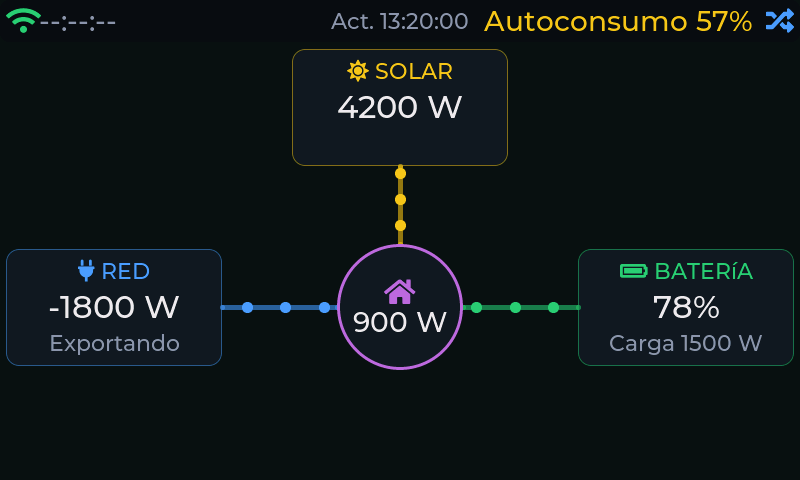
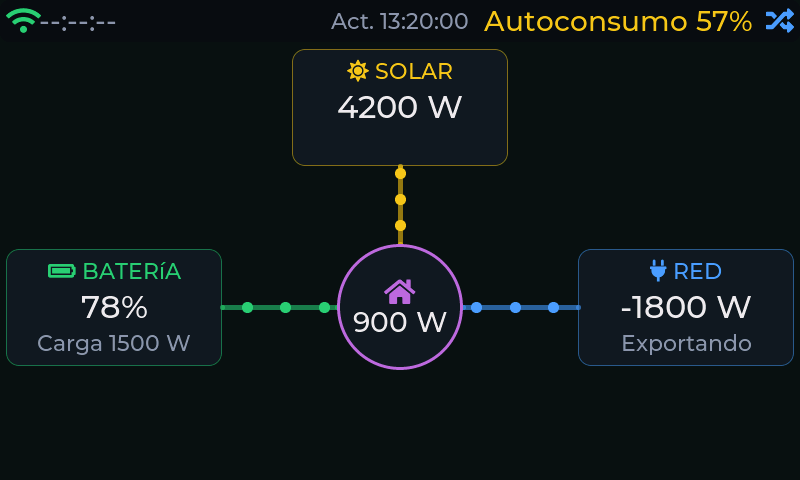
feat: flujo de energía con batería a la izquierda y red a la derecha; «CO2 ahorrado»
Actualiza README (captura del flujo bajo el esquema del dashboard), manual y capturas.

Claude-Session: https://claude.ai/code/session_01GTcuUXT4PcCQKxnsb58b1A

diff --git a/src/dashboard.cpp b/src/dashboard.cpp
@@ -324,14 +324,15 @@ static void flow_create(lv_obj_t* parent)
 
     // Nodos
     flow_make_node(s_flow, cx - nw / 2, top_y, nw, nh, LV_SYMBOL_SUN " SOLAR", C_SOLAR, &fl_solar_val, nullptr);
-    flow_make_node(s_flow, UI_MARGIN, hub_cy - nh / 2, nw, nh, LV_SYMBOL_PLUG " RED", C_RUN, &fl_grid_val, &fl_grid_st);
-    flow_make_node(s_flow, cw - UI_MARGIN - nw, hub_cy - nh / 2, nw, nh,
+    // Batería a la izquierda y red a la derecha
+    flow_make_node(s_flow, UI_MARGIN, hub_cy - nh / 2, nw, nh,
                    LV_SYMBOL_BATTERY_FULL " BATER\xC3\xAD\x41", C_BATT_OK, &fl_batt_val, &fl_batt_st);
+    flow_make_node(s_flow, cw - UI_MARGIN - nw, hub_cy - nh / 2, nw, nh, LV_SYMBOL_PLUG " RED", C_RUN, &fl_grid_val, &fl_grid_st);
 
     // Enlaces (origen → hub). Se crean ANTES que el hub para que este los tape en los extremos.
     flow_make_link(s_fl_solar, s_pts_solar, s_flow, cx, top_y + nh, cx, hub_cy - hub / 2, C_SOLAR);
-    flow_make_link(s_fl_grid,  s_pts_grid,  s_flow, UI_MARGIN + nw, hub_cy, cx - hub / 2, hub_cy, C_RUN);
-    flow_make_link(s_fl_batt,  s_pts_batt,  s_flow, cw - UI_MARGIN - nw, hub_cy, cx + hub / 2, hub_cy, C_BATT_OK);
+    flow_make_link(s_fl_batt,  s_pts_batt,  s_flow, UI_MARGIN + nw, hub_cy, cx - hub / 2, hub_cy, C_BATT_OK);
+    flow_make_link(s_fl_grid,  s_pts_grid,  s_flow, cw - UI_MARGIN - nw, hub_cy, cx + hub / 2, hub_cy, C_RUN);
 
     // Hub "Casa"
     lv_obj_t* h = lv_obj_create(s_flow);

diff --git a/src/telegram.cpp b/src/telegram.cpp
@@ -195,7 +195,7 @@ static String fmt_daily_stats(uint32_t dep, const DailyStats& d,
         "🔋 Descarga bat.: *%.2f kWh*\n\n"
         "📊 Autoconsumo: *%.0f%%*\n"
         "📊 Autosuficiencia: *%.0f%%*\n"
-        "🌱 CO2 evitado: *%.1f kg*",
+        "🌱 CO2 ahorrado: *%.1f kg*",
         title, fmt_date(dep).c_str(),
         d.pv_kwh, d.load_kwh,
         d.export_kwh, d.import_kwh,
@@ -295,7 +295,7 @@ String TelegramBot::cmdPeriodo(bool year, const String& arg) const {
     pos += snprintf(buf + pos, sizeof(buf) - pos,
         "☀ Producción: *%.1f kWh*\n🏠 Consumo: *%.1f kWh*\n"
         "🔌 Exportado: *%.1f kWh*\n🔌 Importado: *%.1f kWh*\n"
-        "📊 Autoconsumo: *%.0f%%*\n📊 Autosuficiencia: *%.0f%%*\n🌱 CO2 evitado: *%.0f kg*\n",
+        "📊 Autoconsumo: *%.0f%%*\n📊 Autosuficiencia: *%.0f%%*\n🌱 CO2 ahorrado: *%.0f kg*\n",
         cur.pv, cur.load, cur.export_kwh, cur.import_kwh,
         cur.autoconsumption() < 0 ? 0 : cur.autoconsumption(),
         cur.autosufficiency() < 0 ? 0 : cur.autosufficiency(), cur.co2_kg());

diff --git a/src/energy_metrics.h b/src/energy_metrics.h
@@ -2,7 +2,7 @@
 #include "tuning.h"
 
 // Indicadores derivados de los totales diarios (DEYE-35): autosuficiencia, autoconsumo y
-// CO2 evitado. Sin dependencias de Arduino; probado en `pio test -e native`. Los usan la
+// CO2 ahorrado. Sin dependencias de Arduino; probado en `pio test -e native`. Los usan la
 // pantalla Estadísticas, el bot de Telegram y la web.
 
 // % del consumo cubierto sin importar de la red (cualquier origen: solar directo + batería).

diff --git a/src/web_server.cpp b/src/web_server.cpp
@@ -364,7 +364,7 @@ footer a{color:var(--accent);text-decoration:none}
     </div>
     <div class="kpi">
       <div class="kpi-v" id="kpi-co2" style="color:#4a9eff">-- kg</div>
-      <div class="kpi-l">CO2 evitado</div>
+      <div class="kpi-l">CO2 ahorrado</div>
     </div>
   </div>
   <div class="donut-row">

diff --git a/docs/manual/08-telegram.md b/docs/manual/08-telegram.md
@@ -30,7 +30,7 @@ Escríbelos en la conversación con tu bot:
 |---|---|
 | `/estado` | Los valores instantáneos: producción solar, red, batería y consumo. |
 | `/bateria` | Nivel, estado, potencia, tensión (si el inversor la informa) y **autonomía estimada** (cuánto queda o cuánto falta para llenarse). |
-| `/hoy` | Totales del día: producción, consumo, importación, exportación, carga y descarga de batería, y los porcentajes de **autoconsumo** y **autosuficiencia**, además del **CO2 evitado**. |
+| `/hoy` | Totales del día: producción, consumo, importación, exportación, carga y descarga de batería, y los porcentajes de **autoconsumo** y **autosuficiencia**, además del **CO2 ahorrado**. |
 | `/dia AAAAMMDD` | Lo mismo que `/hoy` para una fecha pasada, p. ej. `/dia 20260508`. |
 | `/semana` | Resumen de los últimos siete días. |
 | `/mes [AAAAMM]` | Resumen del mes (por defecto, el actual) con totales, autoconsumo, autosuficiencia y CO2, y su **variación respecto al mismo mes del año anterior** si hay datos. |

diff --git a/docs/manual/03-estadisticas.md b/docs/manual/03-estadisticas.md
@@ -26,13 +26,13 @@ con comparaciones frente a ayer y a la semana anterior.
 En el centro de cada anillo está el total del día en kWh, y debajo cada segmento muestra su valor en
 kWh y su porcentaje.
 
-## Autosuficiencia y CO2 evitado
+## Autosuficiencia y CO2 ahorrado
 
 En los títulos de cada columna ves dos indicadores del día:
 
 - **Autosuficiencia** (junto a «Consumo»): qué porcentaje de lo que has consumido **no ha salido de
   la red**. Al 100 % no has importado nada.
-- **CO2 evitado** (junto a «Producción»): lo que habría emitido la red eléctrica para generar la
+- **CO2 ahorrado** (junto a «Producción»): lo que habría emitido la red eléctrica para generar la
   energía solar que has producido. Se calcula con un factor de emisión de **0,15 kg de CO2 por kWh**,
   un valor orientativo del mix eléctrico; si quieres otro, lo fija quien compila el firmware.
 

diff --git a/docs/manual/07-interfaz-web.md b/docs/manual/07-interfaz-web.md
@@ -32,7 +32,7 @@ solo cada cinco segundos, sin recargar la página:
 - Cuatro **medidores**: **Solar** (con PV1 y PV2), **Red** (negativo = exportando), **Batería** (con
   la potencia, el estado, la estimación de autonomía —«llena en 2 h 10 min»— y, si el inversor lo
   informa, la **tensión** y la **temperatura del inversor**) y **Carga**.
-- Bajo ellos, el bloque **Hoy**: **autosuficiencia**, **autoconsumo** y **CO2 evitado** del día, y
+- Bajo ellos, el bloque **Hoy**: **autosuficiencia**, **autoconsumo** y **CO2 ahorrado** del día, y
   los dos anillos de consumo y producción con el desglose en kWh.
 - El **pie** enlaza a la gráfica, a la administración, a la actualización de firmware y al panel
   de descarga **CSV**, y muestra la versión instalada.

diff --git a/docs/manual/index.md b/docs/manual/index.md
@@ -13,7 +13,7 @@ servidor, ni nube, ni suscripción: solo tu red WiFi.
 
 - **Ver de un vistazo** cuánto produce tu instalación, cuánto consumes, cómo está la batería y si
   estás importando o exportando energía a la red ([Panel principal](02-panel-principal.md)).
-- **Entender el día**: totales de consumo y producción, autoconsumo, autosuficiencia, CO2 evitado y
+- **Entender el día**: totales de consumo y producción, autoconsumo, autosuficiencia, CO2 ahorrado y
   comparación con ayer y con la semana anterior ([Estadísticas](03-estadisticas.md)).
 - **Revisar el historial**: gráfica de potencias de las últimas 24 horas o de la semana, y balance
   diario de todo el mes ([Gráfica](04-grafica.md), [Perfil de energía](05-perfil-de-energia.md)).

diff --git a/README.md b/README.md
@@ -246,6 +246,10 @@ Vista principal con datos en tiempo real actualizados cada 5 segundos. La barra 
                     ● ○ ○ ○ ○
 ```
 
+Tocando el icono de la derecha de la barra superior se alterna a la **vista de flujo de energía**: batería a la izquierda, red a la derecha y solar arriba, alrededor de «Casa», con puntos animados que muestran hacia dónde va la energía.
+
+![Vista de flujo de energía](docs/manual/img/pantalla-flujo.png)
+
 El icono WiFi (📶) cambia de color según la señal: **verde** > −60 dBm · **naranja** −75…−60 dBm · **rojo** ≤ −75 dBm · **gris** sin conexión.
 
 La hora «Act.» cambia de color según la antigüedad: **verde** < 10 s · **amarillo** 10–30 s · **rojo** > 30 s.

diff --git a/docs/manual/12-glosario.md b/docs/manual/12-glosario.md
@@ -9,7 +9,7 @@ a la red).
 **Batería (SOC).** Nivel de carga de la batería, de 0 a 100 %. *SOC* viene del inglés *state of
 charge*.
 
-**CO2 evitado.** Emisiones de dióxido de carbono que se habrían producido generando en la red
+**CO2 ahorrado.** Emisiones de dióxido de carbono que se habrían producido generando en la red
 eléctrica la energía que han producido tus paneles. Es una estimación a partir de un factor medio.
 
 **Datalogger / stick WiFi (LSW3).** Pequeño dispositivo enchufado al inversor que lo conecta a tu
